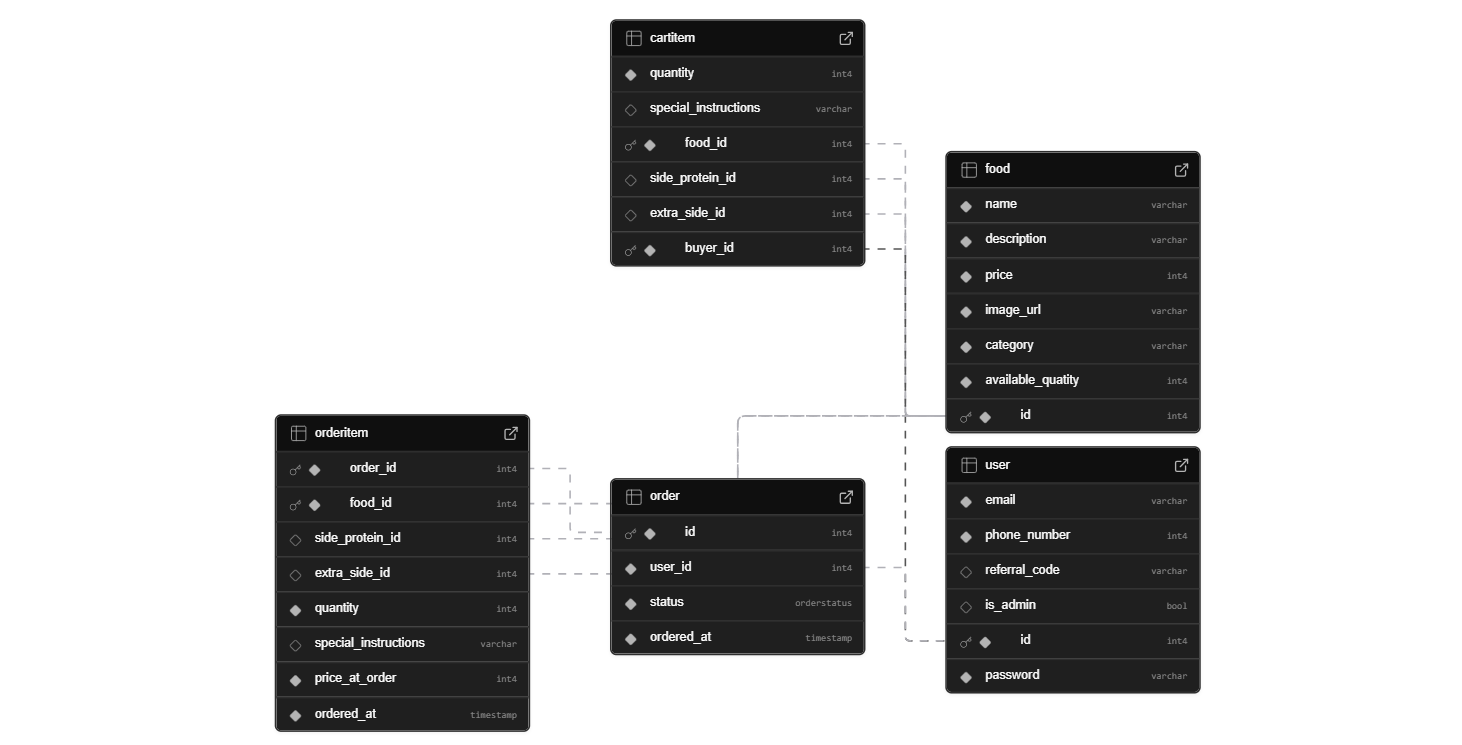
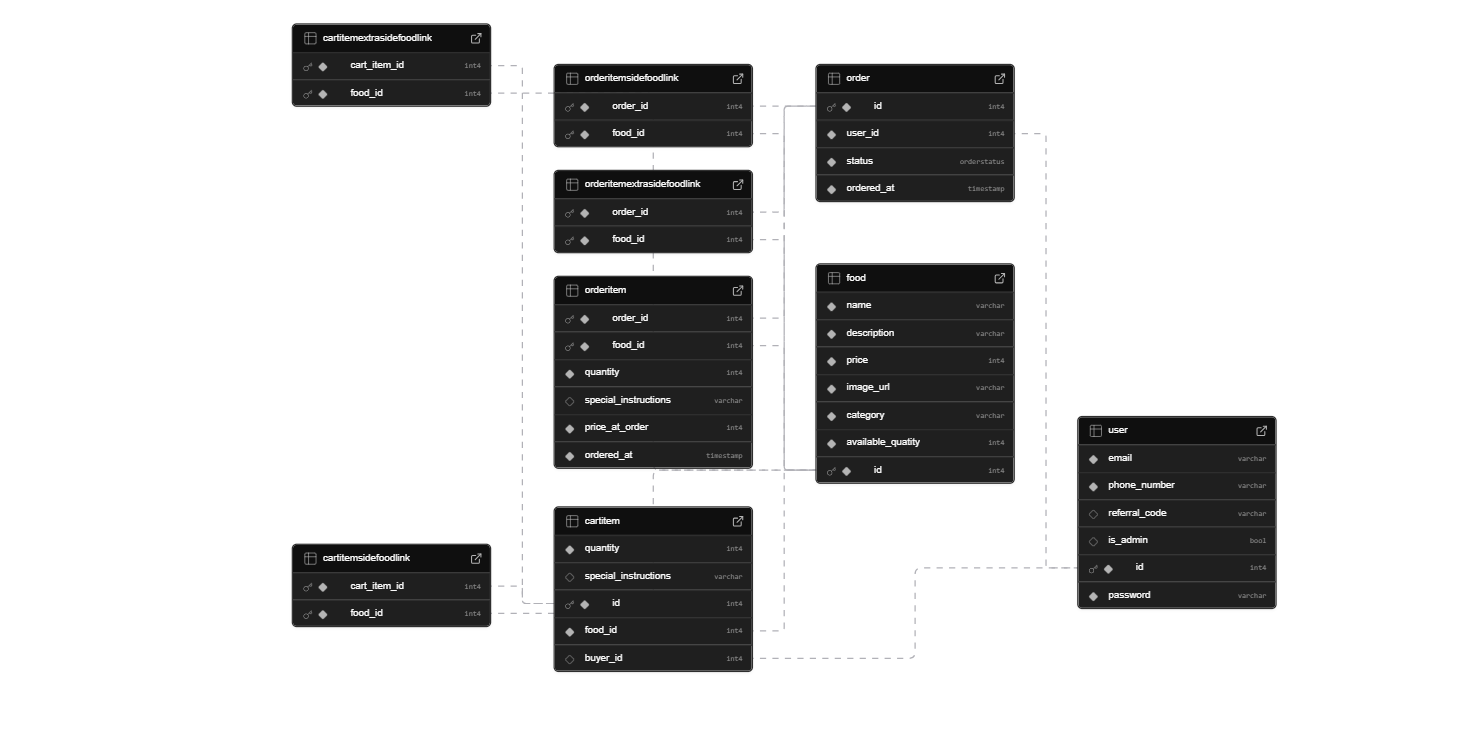
Refactor order item models and enhance cart item retrieval logic: update relationships for side foods and improve matching criteria in get_cart_item method

diff --git a/app/models.py b/app/models.py
@@ -44,9 +44,17 @@ class CartItemExtraSideFoodLink(CartItemFoodLink, table=True):
     pass
 
 
-class OrderItemSideFoodLink(SQLModel, table=True):
+class OrderItemFoodLink(SQLModel):
     order_id: int = Field(foreign_key="order.id", primary_key=True)
     food_id: int = Field(foreign_key="food.id", primary_key=True)
+
+
+class OrderItemSideFoodLink(OrderItemFoodLink, table=True):
+    pass
+
+
+class OrderItemExtraSideFoodLink(OrderItemFoodLink, table=True):
+    pass
 
 
 ## User model
@@ -89,11 +97,11 @@ class Food(DBModelBase, BaseFood, table=True):
     )
     order_side_protein_link: list["OrderItem"] = Relationship(
         back_populates="side_protein",
-        sa_relationship_kwargs={"foreign_keys": "[OrderItem.side_protein_id]"},
+        link_model=OrderItemSideFoodLink,
     )
     order_extra_side_link: list["OrderItem"] = Relationship(
         back_populates="extra_side",
-        sa_relationship_kwargs={"foreign_keys": "[OrderItem.extra_side_id]"},
+        link_model=OrderItemExtraSideFoodLink,
     )
     order_link: list["OrderItem"] = Relationship(
         back_populates="food",
@@ -128,16 +136,14 @@ class OrderItem(DBModelBase, table=True):
         sa_relationship_kwargs={"foreign_keys": "[OrderItem.food_id]"},
     )
 
-    side_protein_id: Optional[int] = Field(default=None, foreign_key="food.id")
     side_protein: Food = Relationship(
         back_populates="order_side_protein_link",
-        sa_relationship_kwargs={"foreign_keys": "[OrderItem.side_protein_id]"},
+        link_model=OrderItemSideFoodLink,
     )
 
-    extra_side_id: Optional[int] = Field(default=None, foreign_key="food.id")
     extra_side: Food = Relationship(
         back_populates="order_extra_side_link",
-        sa_relationship_kwargs={"foreign_keys": "[OrderItem.extra_side_id]"},
+        link_model=OrderItemExtraSideFoodLink,
     )
 
     quantity: int

diff --git a/app/services/cart_services.py b/app/services/cart_services.py
@@ -17,10 +17,17 @@ class CartServices:
         statement = select(CartItem).where(
             CartItem.buyer_id == self.user.id,
             CartItem.food_id == food_id,
-            *[CartItem.side_protein.contains(food) for food in side_protein],  # type: ignore
-            *[CartItem.extra_side.contains(food) for food in extra_side],  # type: ignore
         )
-        return self.db.exec(statement).first()
+        cart_items = self.db.exec(statement).all()
+
+        for item in cart_items:
+            item_side_protein = {f.id for f in item.side_protein}
+            item_extra_side = {f.id for f in item.extra_side}
+            if item_side_protein == set(side_protein) and item_extra_side == set(
+                extra_side
+            ):
+                return item
+        return None
 
     def add_to_cart(self, cart_item: CartItemCreate) -> CartItem:
         side_protein_foods = list(
